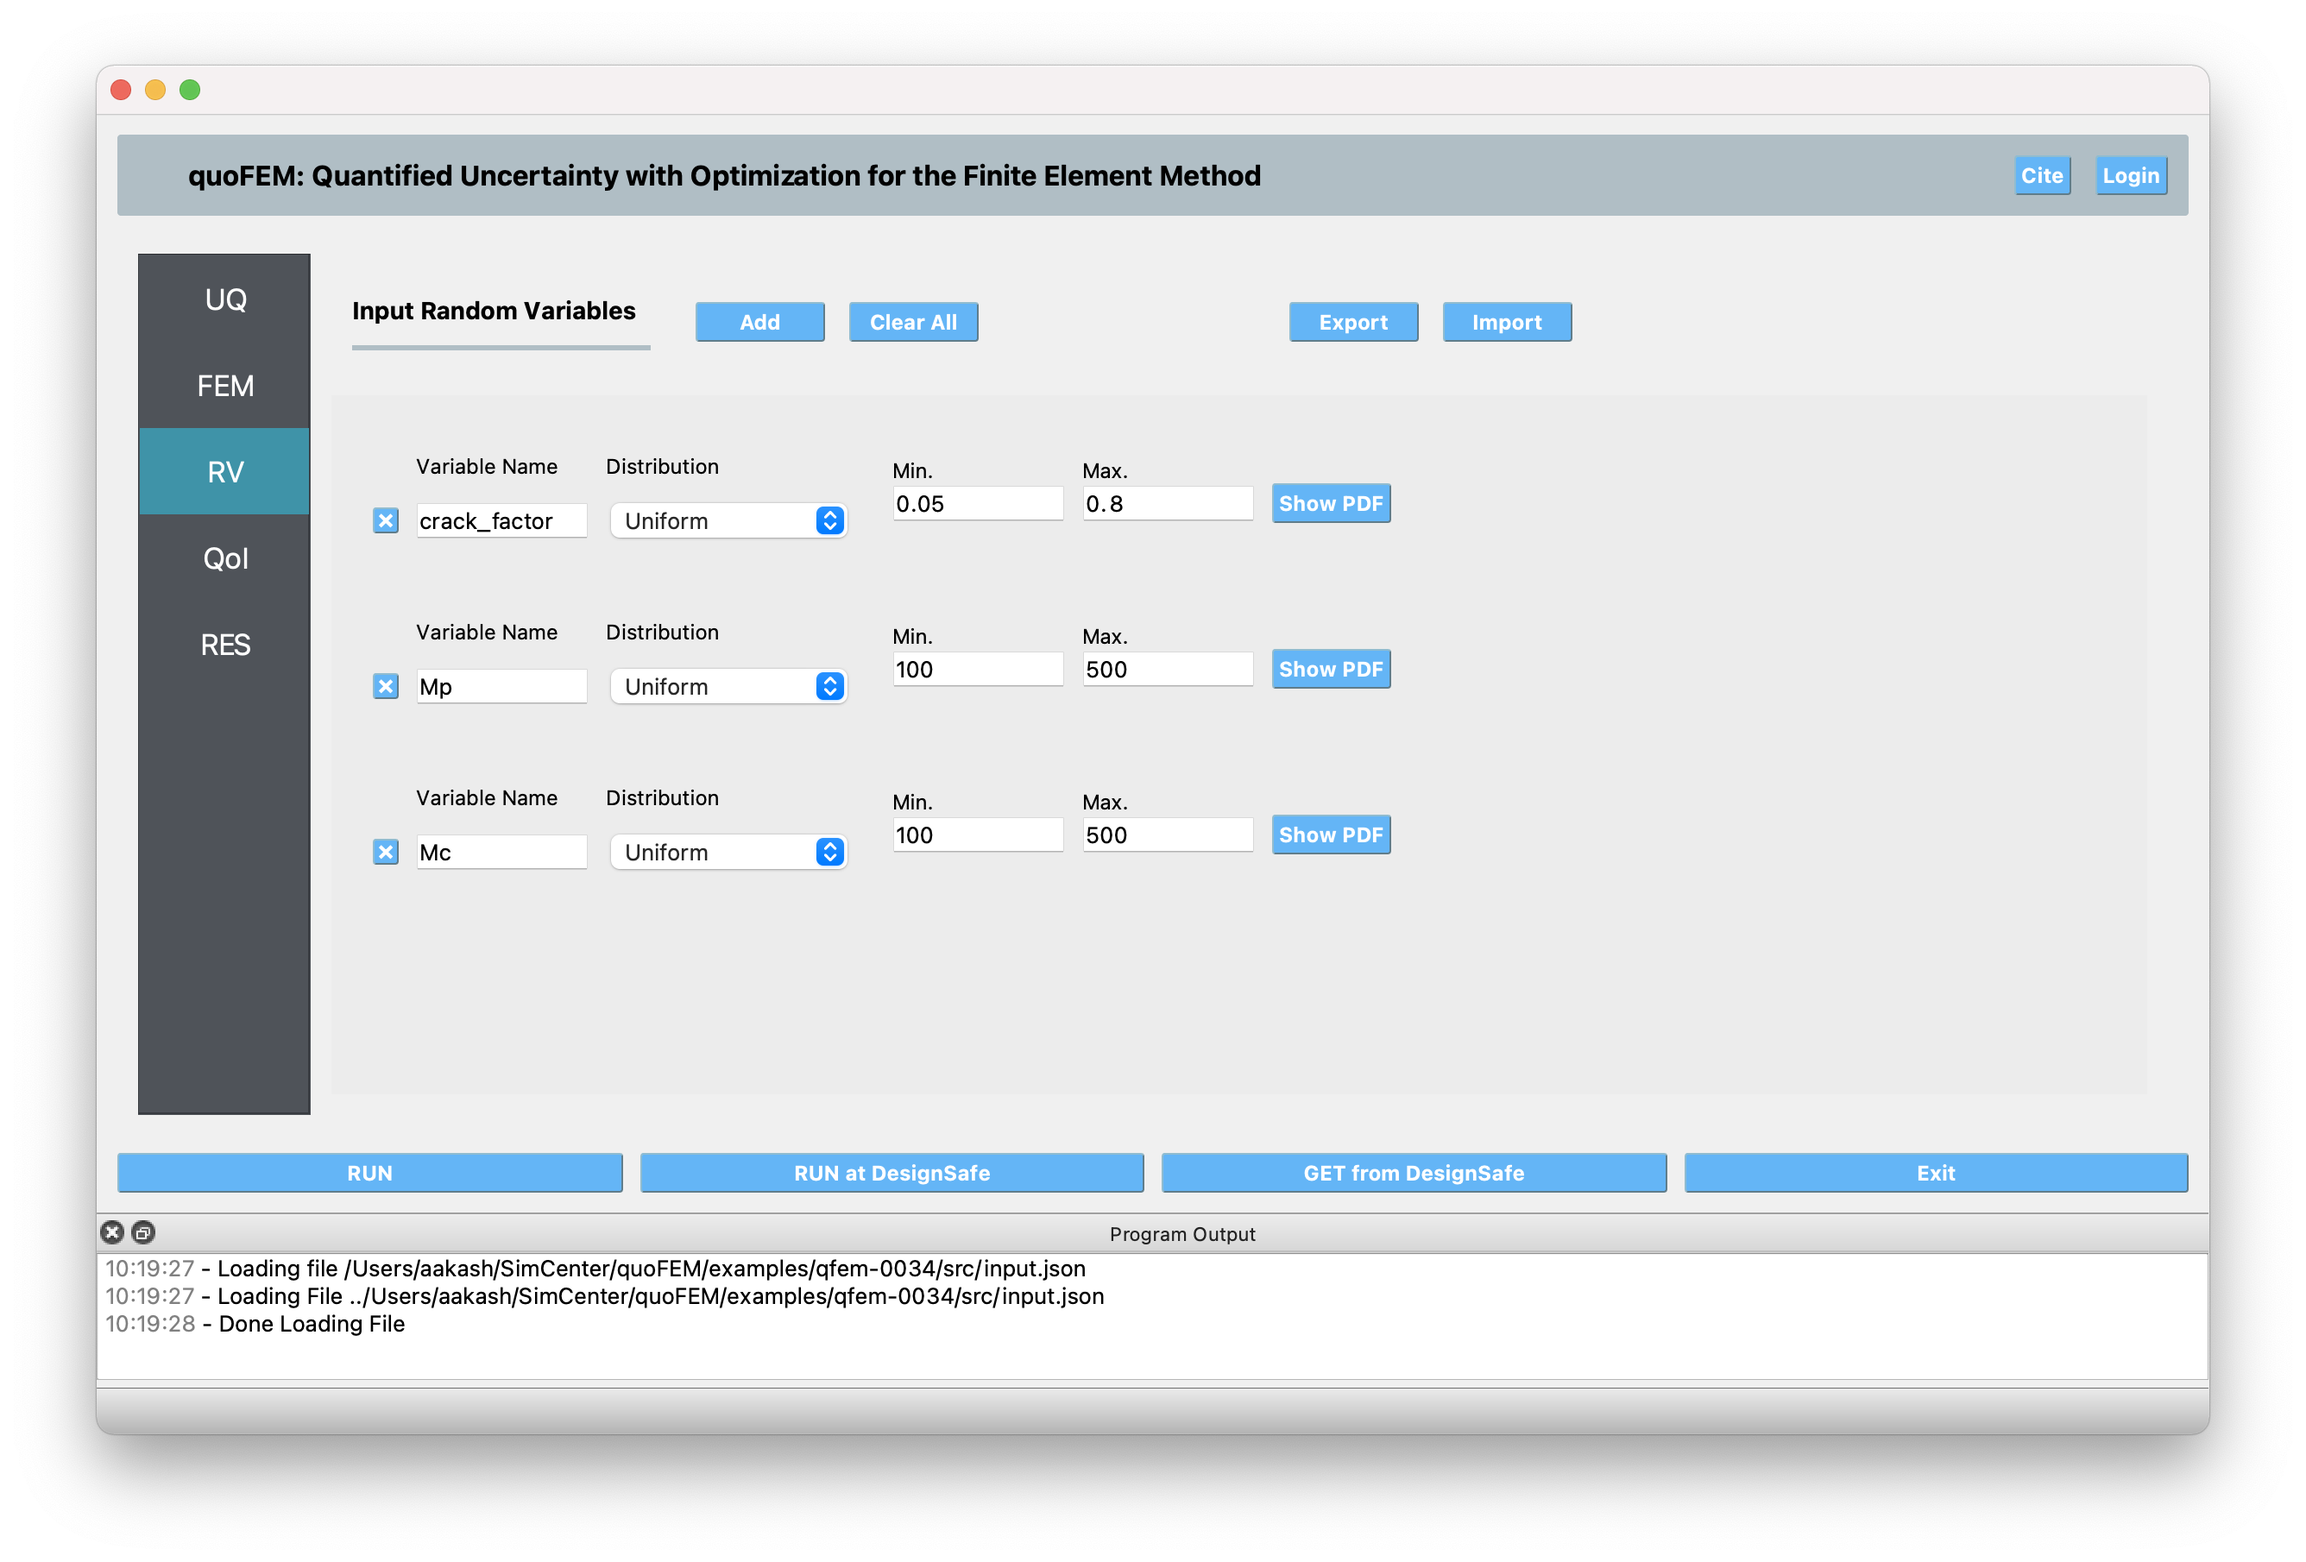
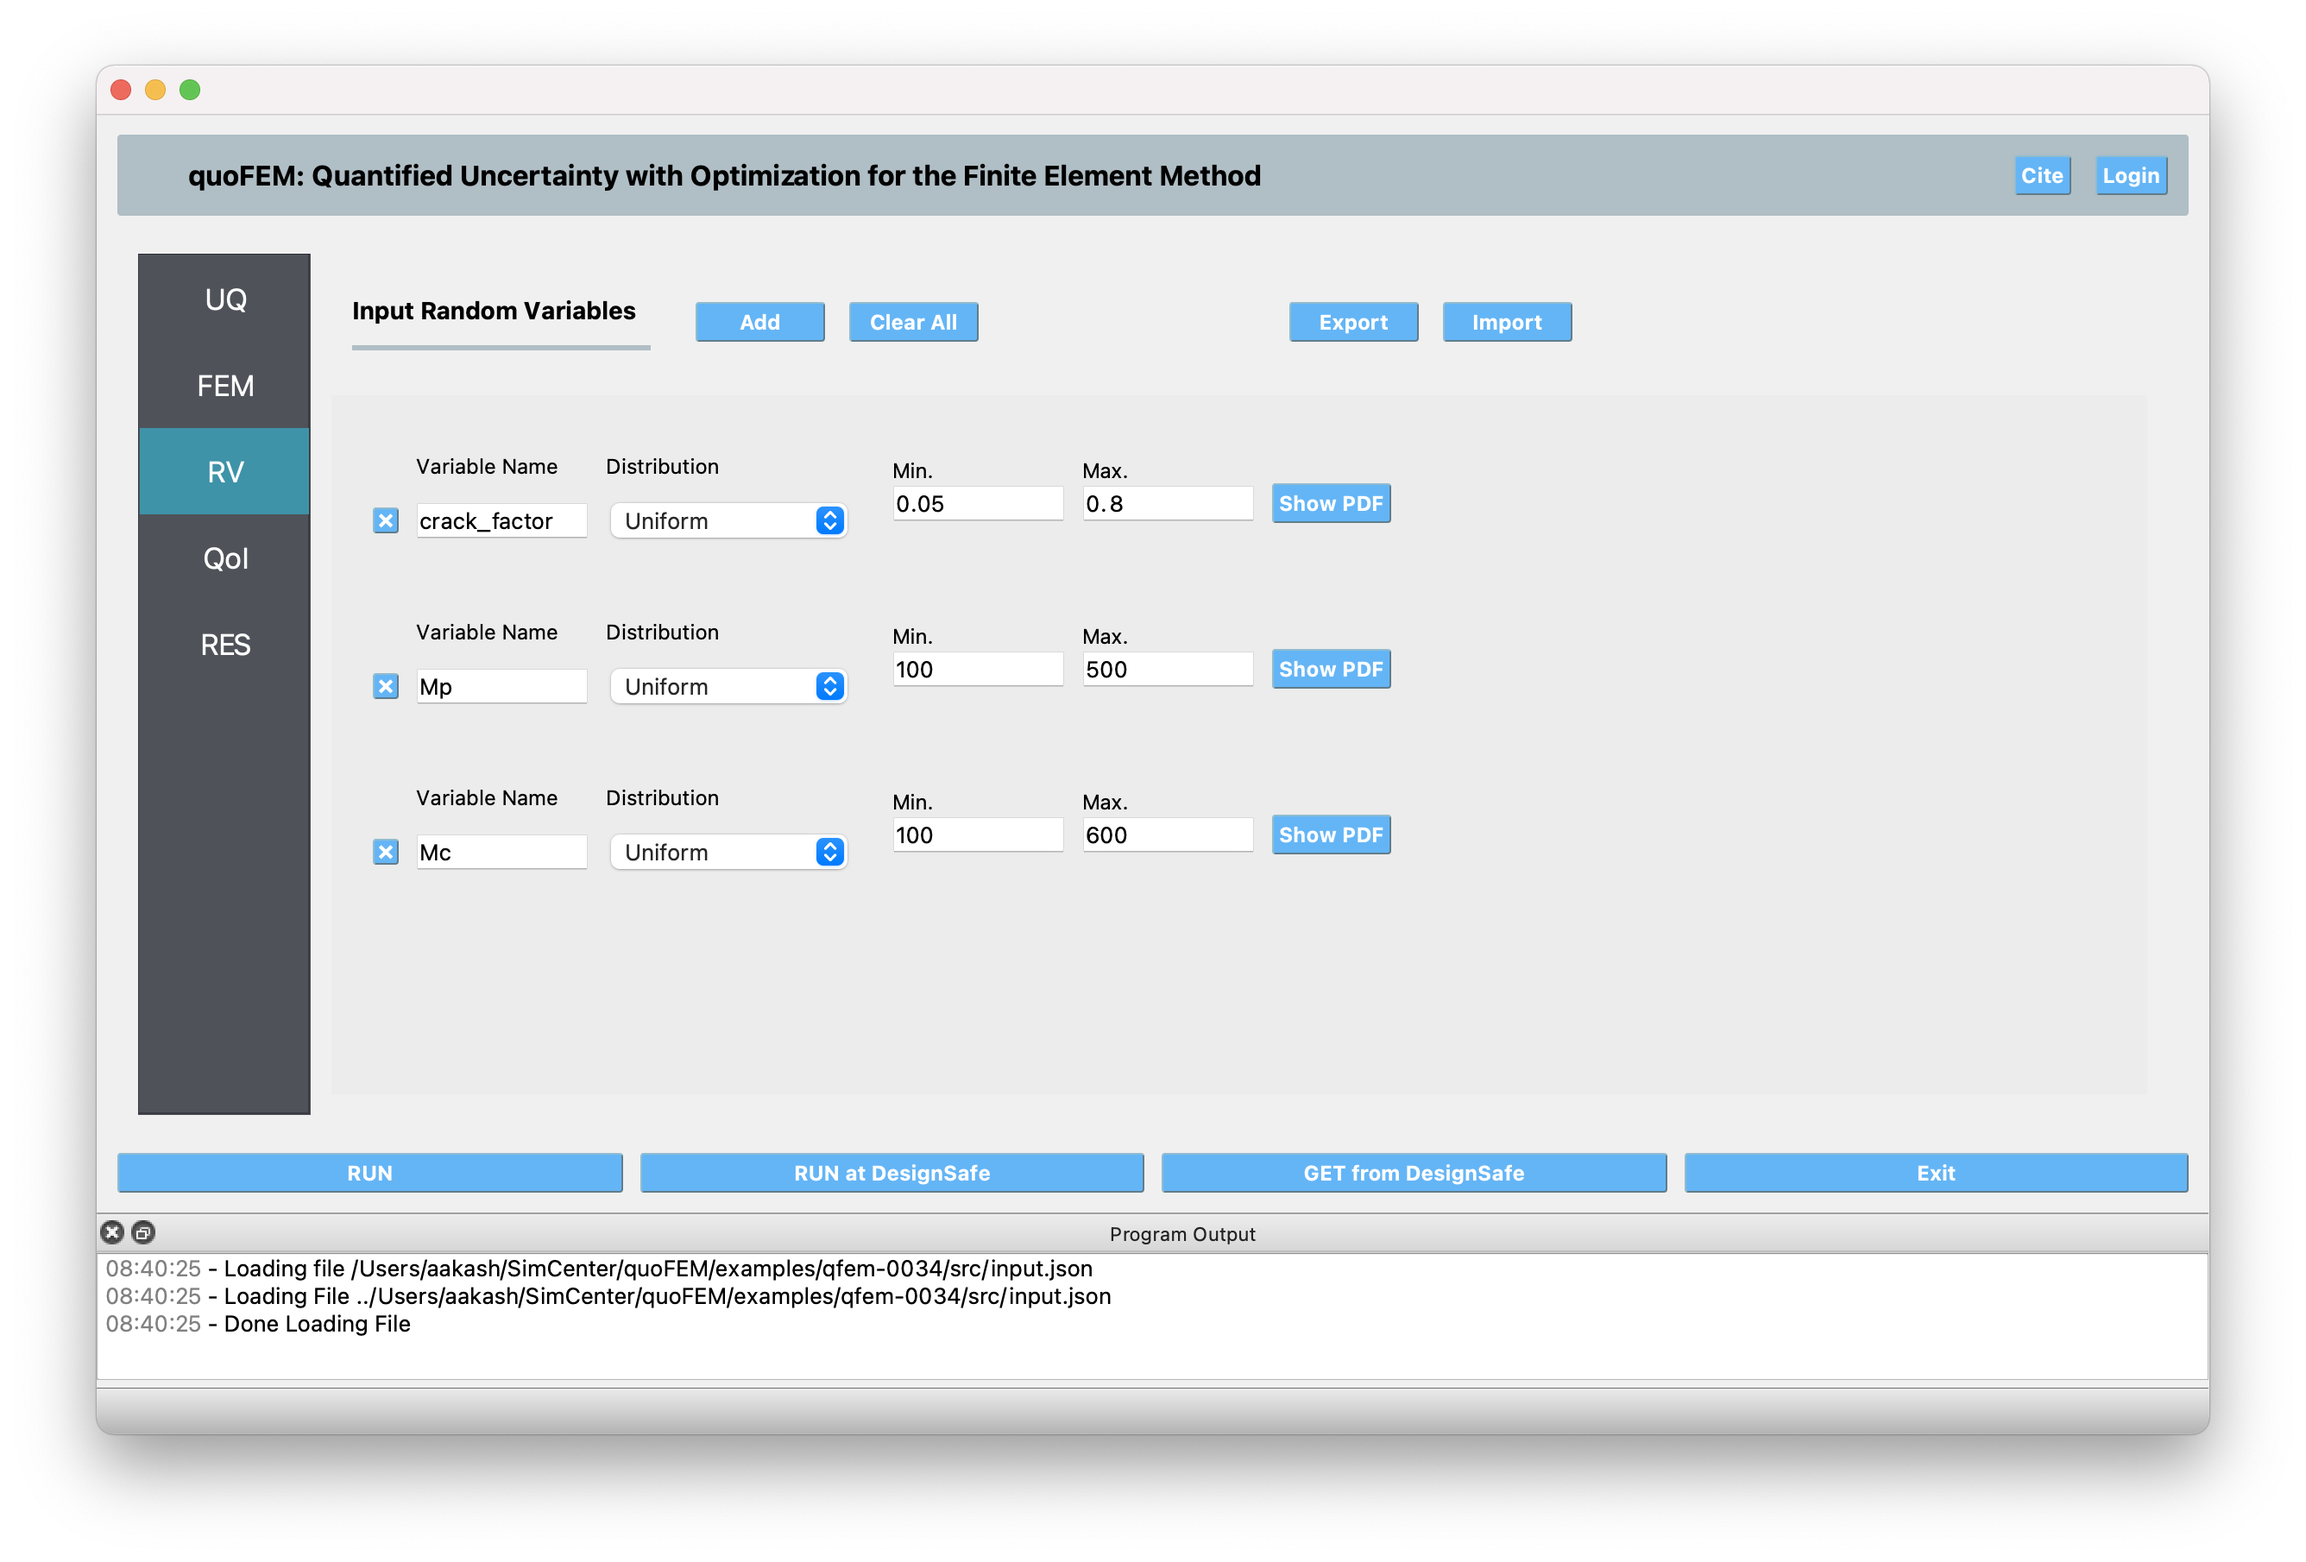
abs - updating the rvs

Changed region(s): [[0.0311, 0.8044, 0.497, 0.8663]]

diff --git a/Examples/qfem-0034/README.rst b/Examples/qfem-0034/README.rst
@@ -61,7 +61,7 @@ The following three parameters are selected for calibration based on their influ
      - kN-m
    * - **Mc**
      - Positive peak moment capacity of plastic hinge
-     - Uniform(100, 500)
+     - Uniform(100, 600)
      - kN-m
 
 Experimental Data
@@ -107,7 +107,7 @@ The calibration is performed using quoFEM with the following configuration:
    * - Mc
      - Uniform
      - 100
-     - 500
+     - 600
 
 .. figure:: figures/RV_panel.png
       :align: center
